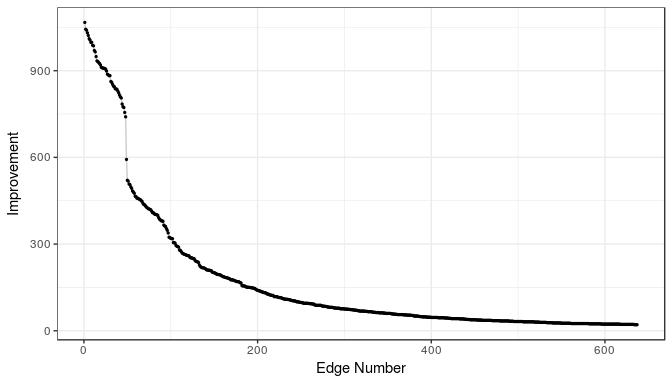
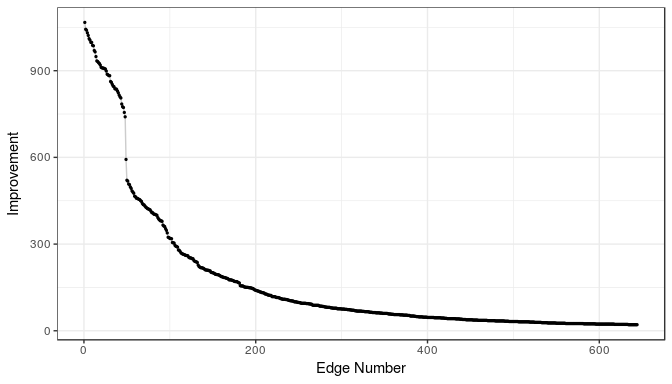
fix typo in vignette

diff --git a/README.md b/README.md
@@ -66,29 +66,29 @@ print(result)
 </thead>
 <tbody>
 <tr class="odd">
-<td align="center">l</td>
-<td align="center">p</td>
-<td align="center">155.5</td>
+<td align="center">o</td>
+<td align="center">t</td>
+<td align="center">182.5</td>
 </tr>
 <tr class="even">
-<td align="center">f</td>
+<td align="center">i</td>
+<td align="center">x</td>
+<td align="center">136</td>
+</tr>
+<tr class="odd">
+<td align="center">o</td>
+<td align="center">w</td>
+<td align="center">133.5</td>
+</tr>
+<tr class="even">
 <td align="center">a</td>
-<td align="center">144.8</td>
+<td align="center">z</td>
+<td align="center">128.5</td>
 </tr>
 <tr class="odd">
-<td align="center">f</td>
-<td align="center">r</td>
-<td align="center">128</td>
-</tr>
-<tr class="even">
-<td align="center">b</td>
-<td align="center">k</td>
-<td align="center">124.5</td>
-</tr>
-<tr class="odd">
-<td align="center">f</td>
 <td align="center">s</td>
-<td align="center">121.4</td>
+<td align="center">m</td>
+<td align="center">123.8</td>
 </tr>
 </tbody>
 </table>
@@ -216,7 +216,7 @@ The `cascades` data type is basically a list containing all the data stored in t
 
 It's always good practice to visually inspect the data before working with it. The `NetworkInference` package provides functionality to visualize the cascade data.
 
-The `summary.cascades()` provieds quick summary statistics on the cascade data.
+The function `summary.cascades()` provides quick summary statistics on the cascade data:
 
 ``` r
 summary(policy_cascades)
@@ -278,7 +278,7 @@ npe <- count_possible_edges(cascades)
 npe
 ```
 
-    ## [1] 637
+    ## [1] 644
 
 Let's run the algorithm with the maximum number of edges to see where the improvement drops off significantly:
 
